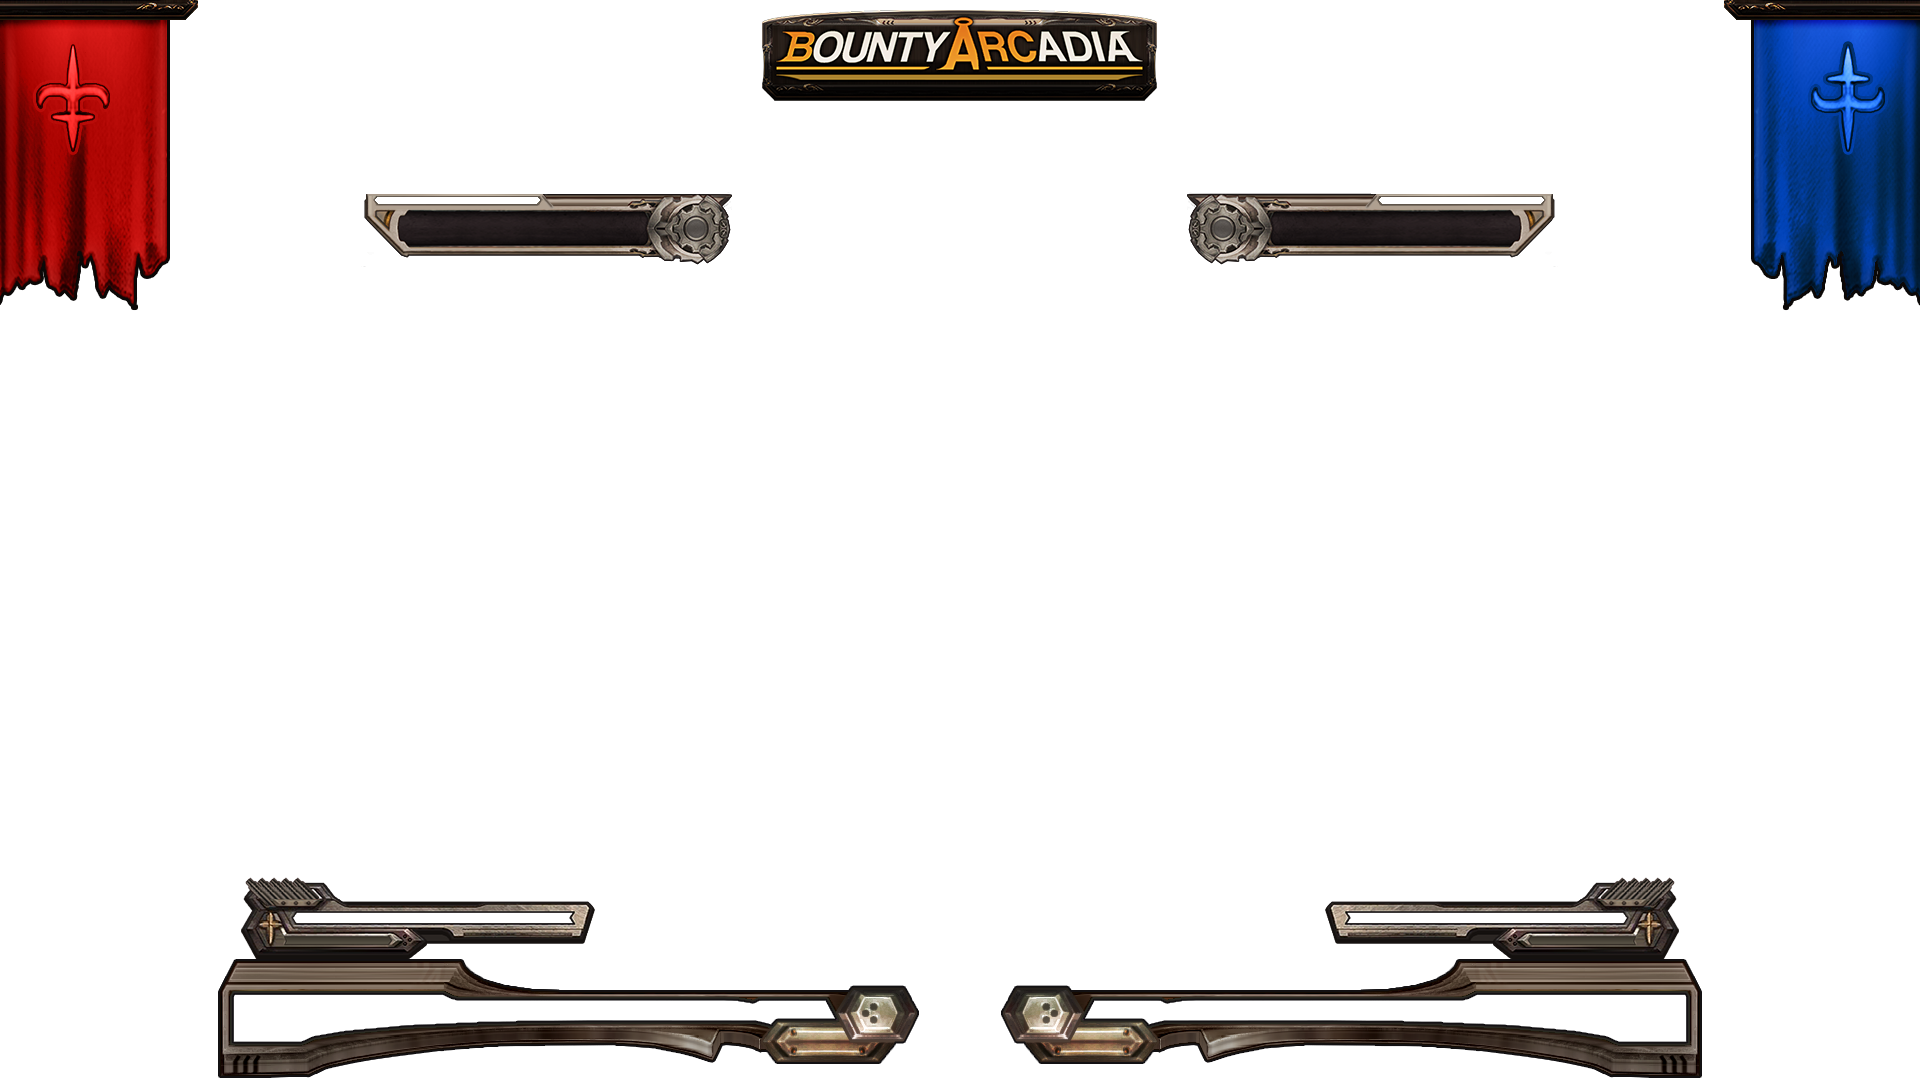
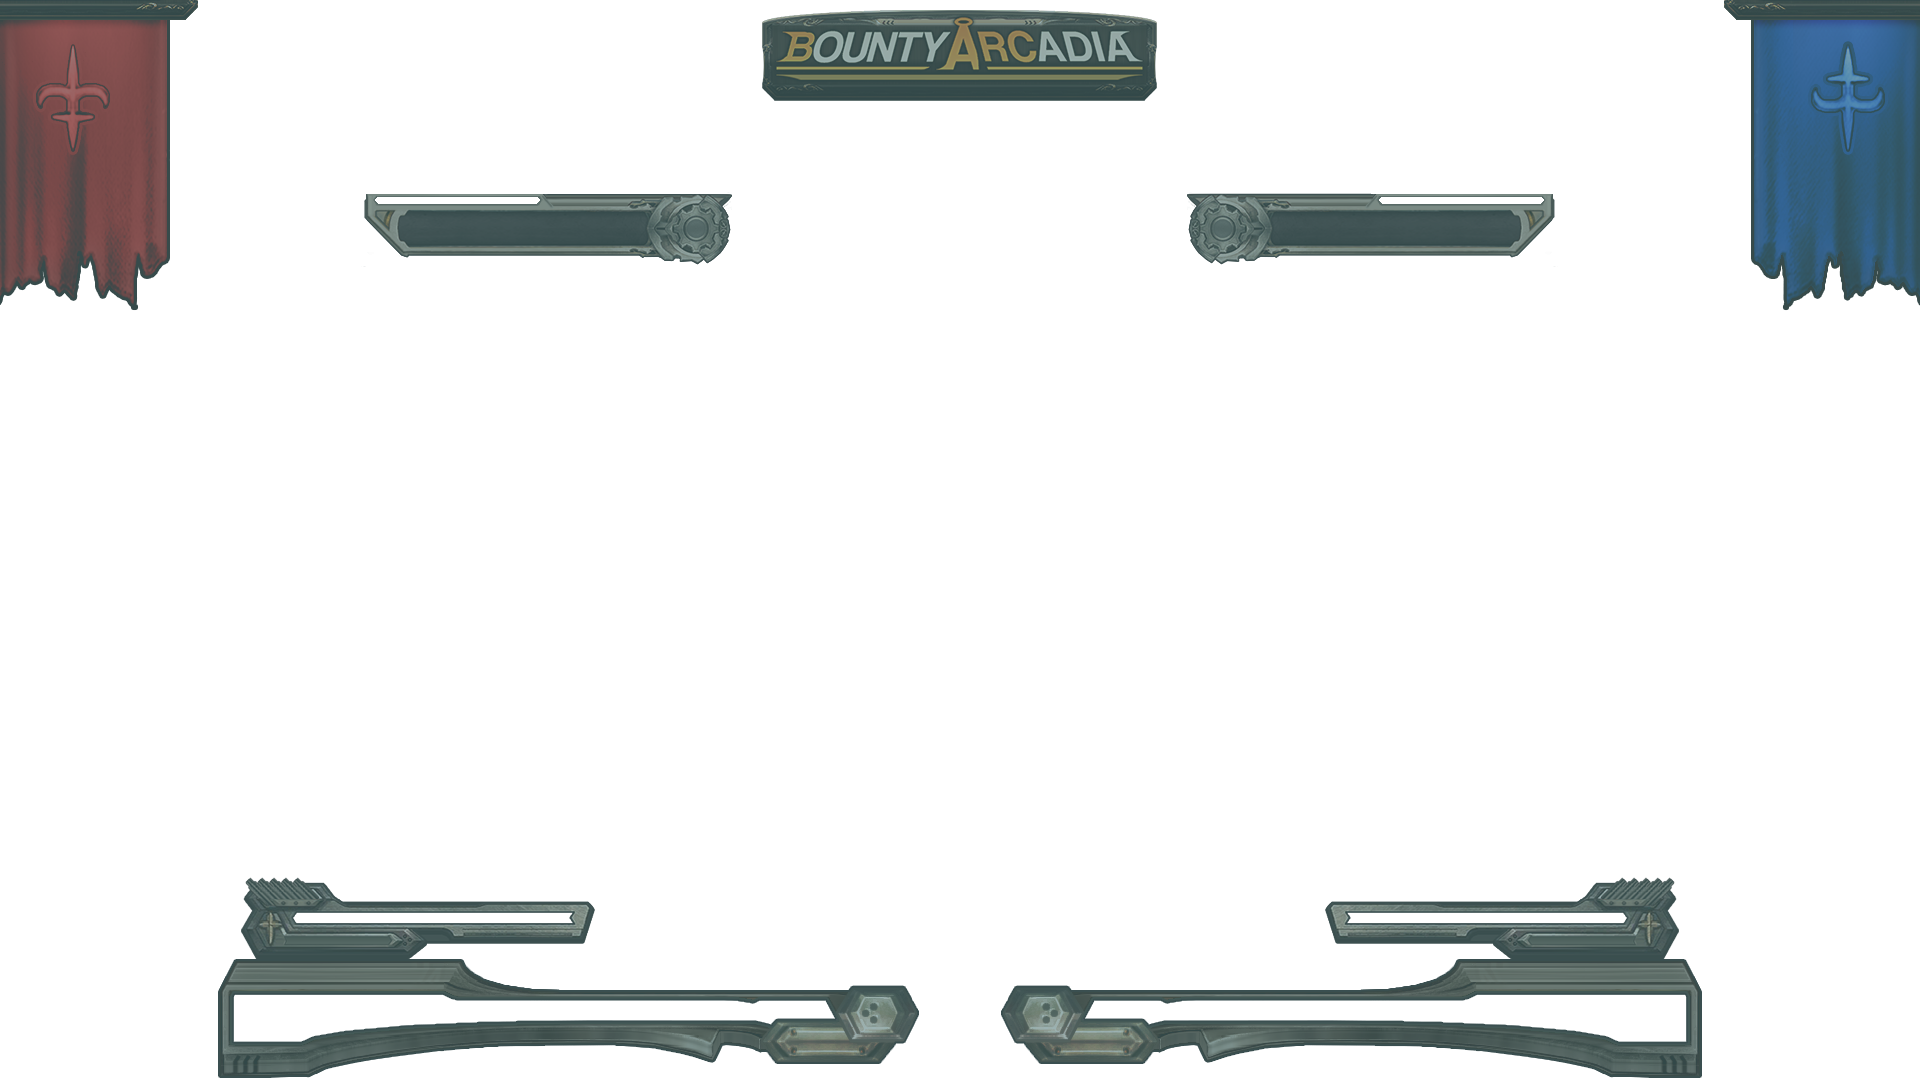
Disabling Atension Meters for testings. Adjusting broken formatting.

diff --git a/src/main/kotlin/application/stream/MatchView.kt b/src/main/kotlin/application/stream/MatchView.kt
@@ -41,14 +41,47 @@ class MatchView(override val root: Parent) : Fragment() {
                 minWidth = 1920.0
                 maxHeight = 1080.0
                 minHeight = 1080.0
+                translateY -= 10
 
+                imageview(getRes("barc_atlas.png").toString()) { // RED SCORE
+                    viewport = Rectangle2D(896.0, 256.0, 640.0, 128.0)
+                    fitWidth = 640.0
+                    fitHeight = 128.0
+                    translateX -= 410
+                    translateY -= 311
+                    scaleX -= 0.42
+                    scaleY -= 0.42
+                }
+                imageview(getRes("barc_atlas.png").toString()) { // BLUE SCORE
+                    viewport = Rectangle2D(896.0, 256.0, 640.0, 128.0)
+                    fitWidth = 640.0
+                    fitHeight = 128.0
+                    translateX += 410
+                    translateY -= 311
+                    scaleX *= -1.0
+                    scaleX += 0.42
+                    scaleY -= 0.42
+                }
                 stunGaugeR = StunGaugeView(parent, 0)
                 stunGaugeB = StunGaugeView(parent, 1)
-
-                imageview(getRes("barc_match.png").toString()) {
-                    viewport = Rectangle2D(0.0, 0.0, 1920.0, 1080.0)
-                    fitWidth = 1920.0
-                    fitHeight = 1080.0
+                imageview(getRes("barc_atlas.png").toString()) { // RED TENSION
+                    viewport = Rectangle2D(1536.0, 320.0, 512.0, 128.0)
+                    fitWidth = 512.0
+                    fitHeight = 128.0
+                    translateX -= 532
+                    translateY += 370
+                    scaleX -= 0.21
+                    scaleY -= 0.21
+                }
+                imageview(getRes("barc_atlas.png").toString()) { // BLUE TENSION
+                    viewport = Rectangle2D(1536.0, 320.0, 512.0, 128.0)
+                    fitWidth = 512.0
+                    fitHeight = 128.0
+                    translateX += 532
+                    translateY += 370
+                    scaleX *= -1.0
+                    scaleX += 0.21
+                    scaleY -= 0.21
                 }
 
                 bountyR = label("FREE") { alignment = Pos.CENTER_LEFT
@@ -169,7 +202,7 @@ class MatchView(override val root: Parent) : Fragment() {
                 else healthR.text = ""
                 stunGaugeR.setVisibility(true)
                 stunGaugeR.applyData(s.matchHandler.clientMatch.getData())
-            }
+            } else stunGaugeR.setVisibility(false)
             statusR.viewport = Rectangle2D(p1.getStatusImage().minX, p1.getStatusImage().minY, p1.getStatusImage().width, p1.getStatusImage().height)
             statusR.isVisible = true
             ratingR.viewport = p1.getRatingImage()
@@ -195,7 +228,7 @@ class MatchView(override val root: Parent) : Fragment() {
                 else healthB.text = ""
                 stunGaugeB.setVisibility(true)
                 stunGaugeB.applyData(s.matchHandler.clientMatch.getData())
-            }
+            } else stunGaugeB.setVisibility(false)
             statusB.viewport = Rectangle2D(p2.getStatusImage().minX, p2.getStatusImage().minY, p2.getStatusImage().width, p2.getStatusImage().height)
             statusB.isVisible = true
             ratingB.viewport = p2.getRatingImage()

diff --git a/src/main/kotlin/application/stream/ViewerScoreView.kt b/src/main/kotlin/application/stream/ViewerScoreView.kt
@@ -81,16 +81,16 @@ class ViewerScoreView(override val root: Parent, private val scaleIndex:Int, pri
                     translateY -= (5.0 * scaleFactor)
                 }
 
-                delta = label("TESTING") {
+                delta = label {
                     addClass(ScoreStyle.bountyChangeText)
-                    when(teamColor) {
-                        0 -> translateX -= (128.0 *  scaleFactor)
-                        1 -> translateX += (128.0 *  scaleFactor)
-                        else -> translateX += (128.0 *  scaleFactor)
-                    }
+//                    when(teamColor) {
+//                        0 -> translateX -= (128.0 *  scaleFactor)
+//                        1 -> translateX += (128.0 *  scaleFactor)
+//                        else -> translateX += (128.0 *  scaleFactor)
+//                    }
                     scaleX *= scaleFactor
                     scaleY *= scaleFactor
-                    translateY -= (22.0 * scaleFactor)
+                    translateY += (16.0 * scaleFactor)
                 }
 
             }
@@ -110,24 +110,24 @@ class ViewerScoreView(override val root: Parent, private val scaleIndex:Int, pri
             wholeThing.isVisible = true
         } else if (v.isValid() && v.isTeamR() && teamColor == 0) {
             // Do stuff for Viewer Atension, stage left (Red)
-            handle.text = v.getName()
+            handle.text = truncate(v.getName(), 11)
             handle.isVisible = true
             score.text = v.getScoreTotalString()
-//            delta.text = ""
+            delta.text = ""
             wholeThing.isVisible = true
         } else if (v.isValid() && v.isTeamB() && teamColor == 1) {
             // Do stuff for Viewer Atension, stage right (Blue)
-            handle.text = v.getName()
+            handle.text = truncate(v.getName(), 11)
             handle.isVisible = true
             score.text = v.getScoreTotalString()
-//            delta.text = ""
+            delta.text = ""
             wholeThing.isVisible = true
         } else {
             // Apply empty data
             handle.text = ""
             handle.isVisible = false
             score.text = "FREE"
-//            delta.text = ""
+            delta.text = ""
             wholeThing.isVisible = false
         }
     }

diff --git a/src/main/kotlin/application/stream/StreamViewLayout.kt b/src/main/kotlin/application/stream/StreamViewLayout.kt
@@ -1,6 +1,7 @@
 package application.stream
 
 import application.ApplicationStyle
+import javafx.geometry.Rectangle2D
 import javafx.scene.Parent
 import javafx.scene.layout.StackPane
 import models.Fighter
@@ -12,7 +13,9 @@ import session.Session.Companion.SLASH_MODE
 import session.Session.Companion.VICTORY_MODE
 import tornadofx.Fragment
 import tornadofx.addClass
+import tornadofx.imageview
 import tornadofx.stackpane
+import utils.getRes
 
 class StreamViewLayout(override val root: Parent) : Fragment() {
 
@@ -83,10 +86,35 @@ class StreamViewLayout(override val root: Parent) : Fragment() {
         with(root) {
             streamView = stackpane { addClass(ApplicationStyle.streamContainer)
                 translateY -= 10
-                atensionMeters = AtensionMetersView(parent)
+
                 lobbyView = LobbyView(parent)
                 matchView = MatchView(parent)
                 viewersView = ViewersView(parent)
+//                atensionMeters = AtensionMetersView(parent)
+
+                imageview(getRes("barc_atlas.png").toString()) { // BARC TITLE
+                    viewport = Rectangle2D(1536.0, 448.0, 448.0, 128.0)
+                    fitWidth = 448.0
+                    fitHeight = 128.0
+                    translateY -= 488
+                }
+                imageview(getRes("barc_atlas.png").toString()) { // RED BANNER
+                    viewport = Rectangle2D(1536.0, 704.0, 256.0, 320.0)
+                    fitWidth = 256.0
+                    fitHeight = 320.0
+                    translateX -= 890
+                    translateY -= 380
+                }
+                imageview(getRes("barc_atlas.png").toString()) { // BLUE BANNER
+                    viewport = Rectangle2D(1792.0, 704.0, 256.0, 320.0)
+                    fitWidth = 256.0
+                    fitHeight = 320.0
+                    translateX += 890
+                    translateY -= 380
+                }
+
+
+
             }
         }
     }

diff --git a/src/main/kotlin/session/MatchHandler.kt b/src/main/kotlin/session/MatchHandler.kt
@@ -9,9 +9,7 @@ import utils.isInRange
 class MatchHandler {
 
     val archiveMatches: HashMap<Long, Match> = HashMap()
-    var lobbyMatches = arrayListOf(Pair(-1L, Match()),Pair(-1L,
-        Match()
-    ),Pair(-1L, Match()),Pair(-1L, Match()))
+    var lobbyMatches = arrayListOf(Pair(-1L, Match()),Pair(-1L, Match()),Pair(-1L, Match()),Pair(-1L, Match()))
     var clientMatch = Match()
 
     private var loser = FighterData()
@@ -89,13 +87,13 @@ class MatchHandler {
             var scoreChange = 0
             when(winnerSide) {
                 0 -> {
-                    if(it.value.isTeamR()) scoreChange += ((100*riskModifier).toInt() + payout)
-                    if(it.value.isTeamB()) scoreChange -= ((100*riskModifier).toInt() + payout)
+                    if(it.value.isTeamR() && !it.value.isTeamB()) scoreChange += ((100*riskModifier).toInt() + payout)
+                    if(!it.value.isTeamR() && it.value.isTeamB()) scoreChange -= ((100*riskModifier).toInt() + payout)
                     if(it.value.isTeamR() && it.value.isTeamB()) scoreChange -= ((100*riskModifier).toInt() + (payout*riskModifier).toInt())
                 }
                 1 -> {
-                    if(it.value.isTeamR()) scoreChange -= ((100*riskModifier).toInt() + payout)
-                    if(it.value.isTeamB()) scoreChange += ((100*riskModifier).toInt() + payout)
+                    if(it.value.isTeamR() && !it.value.isTeamB()) scoreChange -= ((100*riskModifier).toInt() + payout)
+                    if(!it.value.isTeamR() && it.value.isTeamB()) scoreChange += ((100*riskModifier).toInt() + payout)
                     if(it.value.isTeamR() && it.value.isTeamB()) scoreChange -= ((100*riskModifier).toInt() + (payout*riskModifier).toInt())
                 }
             }

diff --git a/src/main/kotlin/application/stream/LobbyView.kt b/src/main/kotlin/application/stream/LobbyView.kt
@@ -22,11 +22,29 @@ class LobbyView(override val root: Parent) : Fragment() {
     init {
         with(root) {
             container = stackpane {
-                imageview(getRes("barc_lobby.png").toString()) {
-                    viewport = Rectangle2D(0.0, 0.0, 1920.0, 1080.0)
-                    fitWidth = 1920.0
-                    fitHeight = 1080.0
+                translateY -= 10
+//                imageview(getRes("barc_lobby.png").toString()) {
+//                    viewport = Rectangle2D(0.0, 0.0, 1920.0, 1080.0)
+//                    fitWidth = 1920.0
+//                    fitHeight = 1080.0
+//                    opacity = 0.5
+//                }
+
+                imageview(getRes("barc_atlas.png").toString()) { // UPPER GATE
+                    viewport = Rectangle2D(384.0, 1024.0, 1664.0, 256.0)
+                    fitWidth = 1664.0
+                    fitHeight = 256.0
+                    translateY -= 282
+                    translateX -= 2
                 }
+                imageview(getRes("barc_atlas.png").toString()) { // LOWER GATE
+                    viewport = Rectangle2D(384.0, 1280.0, 1664.0, 256.0)
+                    fitWidth = 1664.0
+                    fitHeight = 256.0
+                    translateY += 318
+                    translateX -= 2
+                }
+
                 for (i in 0..7) {
                     bountiesGui.add(FighterScoreView(parent, i))
                 }

diff --git a/src/main/kotlin/application/stream/AtensionGaugeView.kt b/src/main/kotlin/application/stream/AtensionGaugeView.kt
@@ -9,20 +9,19 @@ import javafx.scene.shape.Rectangle
 import memscan.MatchData
 import tornadofx.*
 import utils.getRes
-import kotlin.random.Random
 
 class AtensionGaugeView(override val root: Parent, private val teamColor:Int) : Fragment() {
 
     private var wholeThing: StackPane
     private lateinit var backing: Rectangle
     private lateinit var progress: Rectangle
-    private var atensionProgress: Int = Random.nextInt(0, 10000)
+    private var atensionProgress: Int = 0 //Random.nextInt(0, 10000)
     private var atensionMaximum: Int = 10000
 
     private val genericHeight = 50.0
     private val maximumWidth = 610.0
     private val verticalPosition = 468.0
-    private val horizontalPosition = 1080.0
+    private val horizontalPosition = 1100.0
 
     init {
         with(root) {
@@ -96,7 +95,7 @@ class AtensionGaugeView(override val root: Parent, private val teamColor:Int) : 
                 }
 
                 imageview(getRes("barc_atlas.png").toString()) { // ROTAR
-                    translateY += verticalPosition - 8.0
+                    translateY += verticalPosition - 10.0
                     viewport = Rectangle2D(1344.0, 704.0, 192.0, 192.0)
                     when(teamColor) {
                         0 -> translateX += 128.0

diff --git a/src/main/kotlin/application/stream/FighterScoreView.kt b/src/main/kotlin/application/stream/FighterScoreView.kt
@@ -70,7 +70,7 @@ class FighterScoreView(override val root: Parent, private val scaleIndex:Int) : 
                     translateY -= 40
                     rotate += 1
                     addClass(ScoreStyle.bountyChangeText)
-                    blendMode = BlendMode.HARD_LIGHT
+//                    blendMode = BlendMode.HARD_LIGHT
                 }
 
                 spirit = imageview(getRes("cb_chain_red.gif").toString()) {
@@ -202,7 +202,7 @@ class FighterScoreView(override val root: Parent, private val scaleIndex:Int) : 
     private fun setChangeTextColor(changeInt: Int) = when {
         changeInt > 0 -> change.textFill = LinearGradient(0.0, -20.0, 0.0, 10.0, false, CycleMethod.NO_CYCLE, Stop(0.0, c(0.2, 1.0, 0.6)), Stop(0.48, c(0.2, 1.0, 0.6)), Stop(0.58, c(0.0, 0.8, 0.4)), Stop(1.0, c(0.0, 0.8, 0.4))) //c("#17e07f")
         changeInt < 0 -> change.textFill = LinearGradient(0.0, -20.0, 0.0, 10.0, false, CycleMethod.NO_CYCLE, Stop(0.0, c(1.0, 0.4, 0.5)), Stop(0.48, c(1.0, 0.4, 0.5)), Stop(0.58, c(0.9, 0.1, 0.0)), Stop(1.0, c(0.9, 0.1, 0.0))) // c("#fd2832")
-        else -> change.textFill = c("#e0af1a")
+        else -> change.textFill = c("#52463f")
     }
 
 

diff --git a/src/main/kotlin/application/stream/StunGaugeView.kt b/src/main/kotlin/application/stream/StunGaugeView.kt
@@ -23,7 +23,6 @@ class StunGaugeView(override val root: Parent, private val teamColor:Int) : Frag
     init {
         with(root) {
             wholeThing = stackpane {
-                toBack()
                 when(teamColor) {
                     0 -> {
                         alignment = Pos.CENTER_LEFT
@@ -37,14 +36,14 @@ class StunGaugeView(override val root: Parent, private val teamColor:Int) : Frag
                 backing = rectangle {
                     fill = c("#474234")
                     width = 170.0
-                    height = 10.0
-                    translateY -= 340
+                    height = 6.0
+                    translateY -= 344
                 }
                 progress = rectangle {
                     fill = c("#04d4f7")
                     width = 170.0
-                    height = 10.0
-                    translateY -= 340
+                    height = 3.0
+                    translateY -= 344
                 }
             }
         }

diff --git a/src/main/kotlin/application/stream/AtensionMetersView.kt b/src/main/kotlin/application/stream/AtensionMetersView.kt
@@ -1,10 +1,13 @@
 package application.stream
 
 import javafx.application.Platform
+import javafx.geometry.Rectangle2D
 import javafx.scene.Parent
 import memscan.MatchData
 import tornadofx.Fragment
+import tornadofx.imageview
 import tornadofx.stackpane
+import utils.getRes
 
 class AtensionMetersView(override val root: Parent) : Fragment() {
 
@@ -14,6 +17,12 @@ class AtensionMetersView(override val root: Parent) : Fragment() {
     init {
         with(root) {
             stackpane {
+                imageview(getRes("barc_atlas.png").toString()) { // WHEEL
+                    viewport = Rectangle2D(640.0, 768.0, 256.0, 256.0)
+                    fitWidth = 256.0
+                    fitHeight = 256.0
+                    translateY += 444
+                }
                 atensionGaugeR = AtensionGaugeView(parent, 0)
                 atensionGaugeB = AtensionGaugeView(parent, 1)
             }

diff --git a/src/main/kotlin/models/Player.kt b/src/main/kotlin/models/Player.kt
@@ -8,16 +8,15 @@ import utils.addCommas
 import kotlin.math.abs
 import kotlin.math.max
 import kotlin.math.min
-import kotlin.random.Random
 
 abstract class Player(private val id:Long = -1, private val name:String = "") {
 
     private var characterId:Byte = -0x1
-    private var scoreTotal = Random.nextInt(0, 9999999)
-    private var scoreDelta = Random.nextInt(-99999, 99999)
+    private var scoreTotal = 0 //Random.nextInt(0, 9999999)
+    private var scoreDelta = 0 //Random.nextInt(-99999, 99999)
     private var bystanding = 1
     private var atension = 0
-    private var rating = Random.nextInt(0, 8)
+    private var rating = 0 //Random.nextInt(0, 8)
     private var matchesWon = 0
     private var matchesSum = 0
 

diff --git a/src/main/kotlin/models/Match.kt b/src/main/kotlin/models/Match.kt
@@ -21,6 +21,8 @@ class Match (val matchId: Long = -1, private val cabinetId: Byte = -0x1, val pla
     private var roundStarted = false
     private val snaps = arrayListOf(matchData)
 
+
+
     // Gotten from MatchData, else gotten from LobbyData (LOBBY QUALITY DATA)
     private var character = Duo(players.p1.characterId.toInt(), players.p2.characterId.toInt())
     private var handle = Duo(players.p1.displayName, players.p2.displayName)
